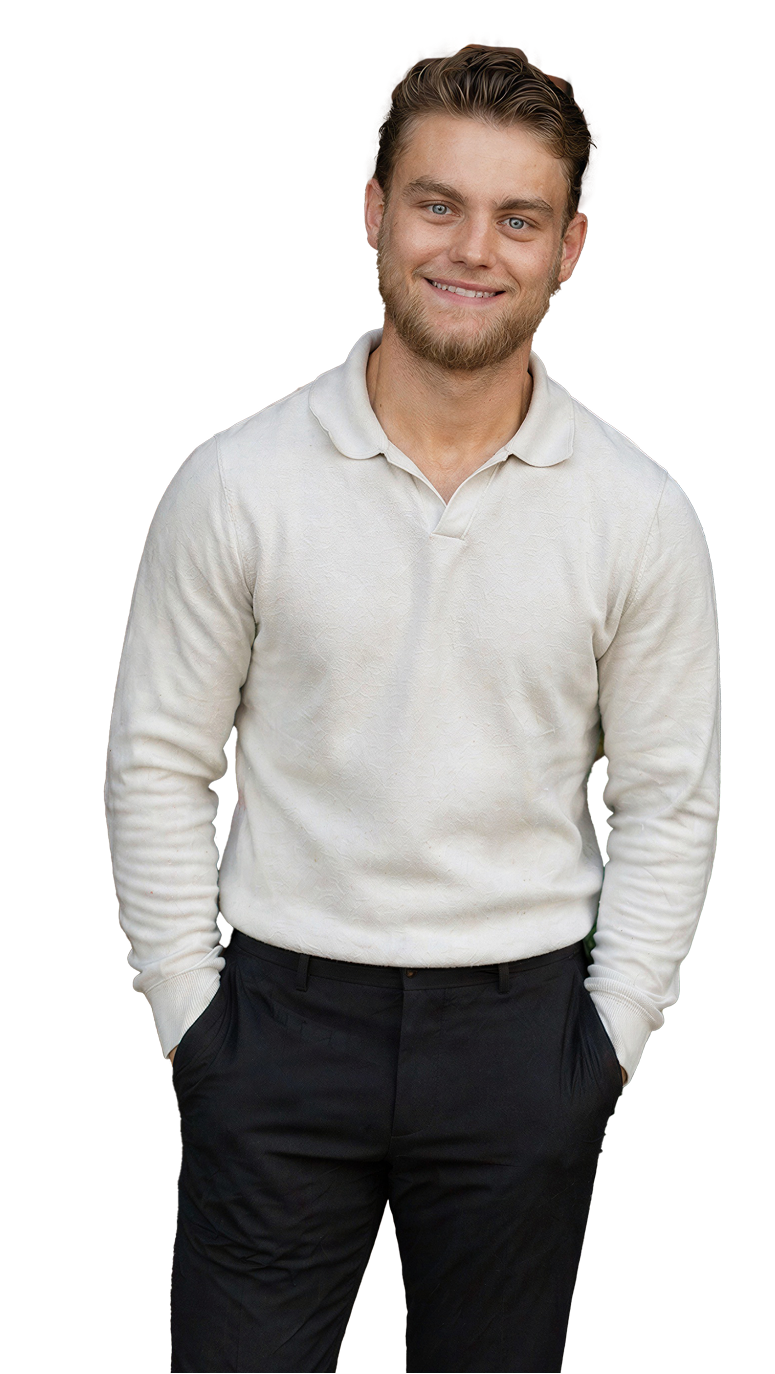
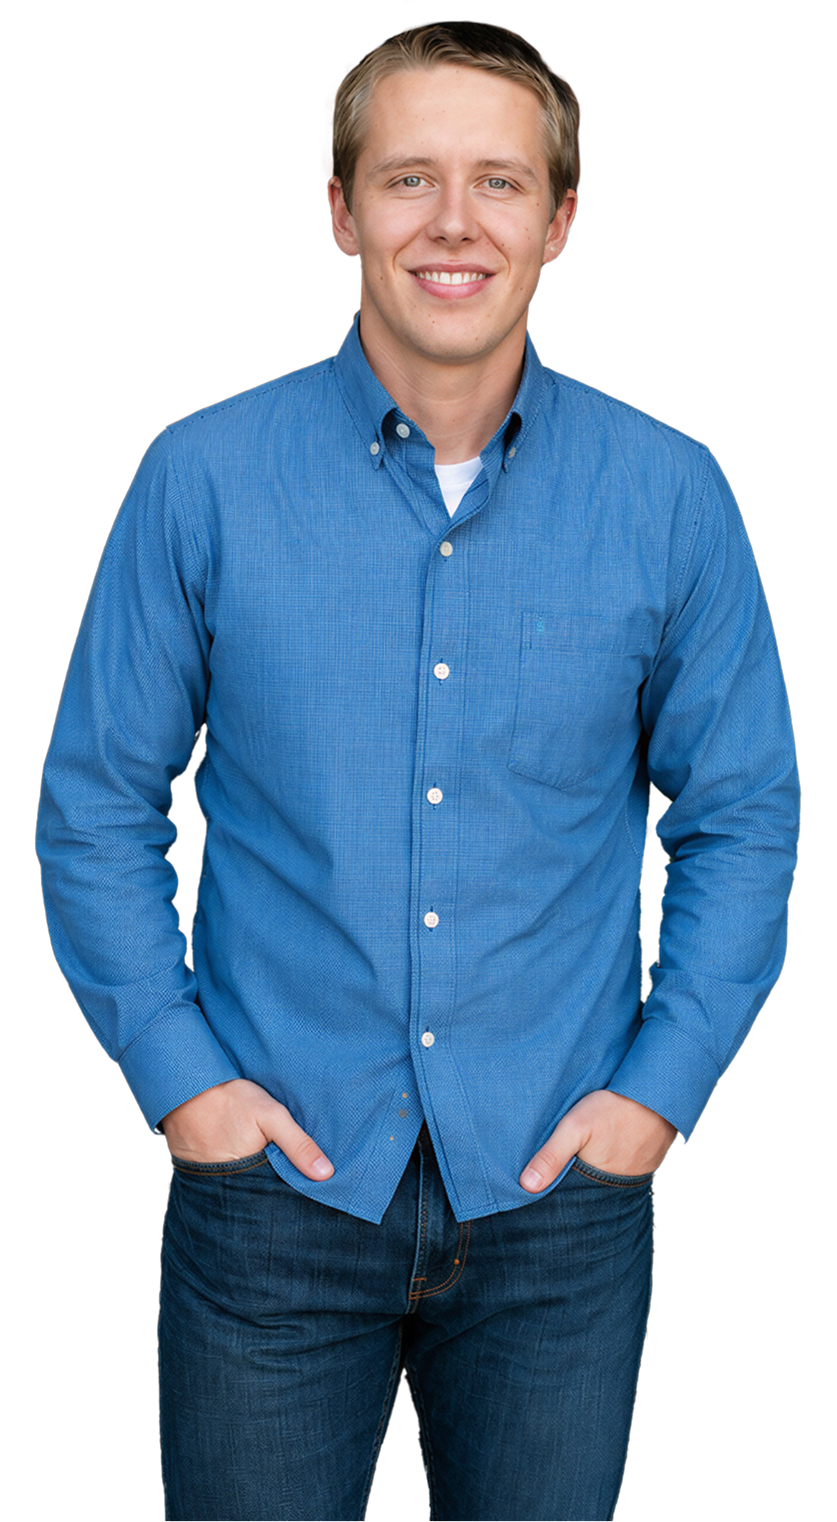
update gen z speakers

diff --git a/src/templates/bases/public.html b/src/templates/bases/public.html
@@ -118,6 +118,9 @@
             src="https://www.facebook.com/tr?id=1687192149361638&ev=PageView&noscript=1" /></noscript>
     <!-- End Meta Pixel Code -->
 
+    <!-- Meta Tag -->
+    <meta name= "facebook-domain-verification" content="ruij305omujrus07q715eilx1dnc" />
+
     {% block head_extra %}{% endblock %}
 
     <style>

diff --git a/src/data/speakers.py b/src/data/speakers.py
@@ -190,6 +190,21 @@ gen_z_speakers = [
 				'subtitle': ' '
 			}
 		],
+        'shrink': 0.98,
+    },
+    {
+        'name': 'Keyton Lawter',
+        'image': 'img/speakers/gen_z/keyton.webp',
+        'alt': 'Keyton Lawter',
+        'titles': [' '],
+        'bio': 'Recently deemed "local activist" Keyton Lawter is in his 2nd year at Vector West University. Throughout his time in Vector West, Keyton has organized and started a Turning Point USA chapter at the college. With the help of his team Keyton has organized multiple rallies both locally and on the steps of the state capitol building. More recently he has taken on the battle of replacing the gay pride flags typically flown along the streets of Wenatchee, with banners that celebrate the core of every community: family. Keyton is 19 years old with the ultimate goal of one day being a loving husband, father and leaving the world a little bit better than he found it, while serving Christ the best he can.',
+		'orgs': [
+			{
+				'icon': ' ',
+				'name': ' ',
+				'subtitle': ' '
+			}
+		],
     },
     {
         'name': 'Caden Vasquez',
